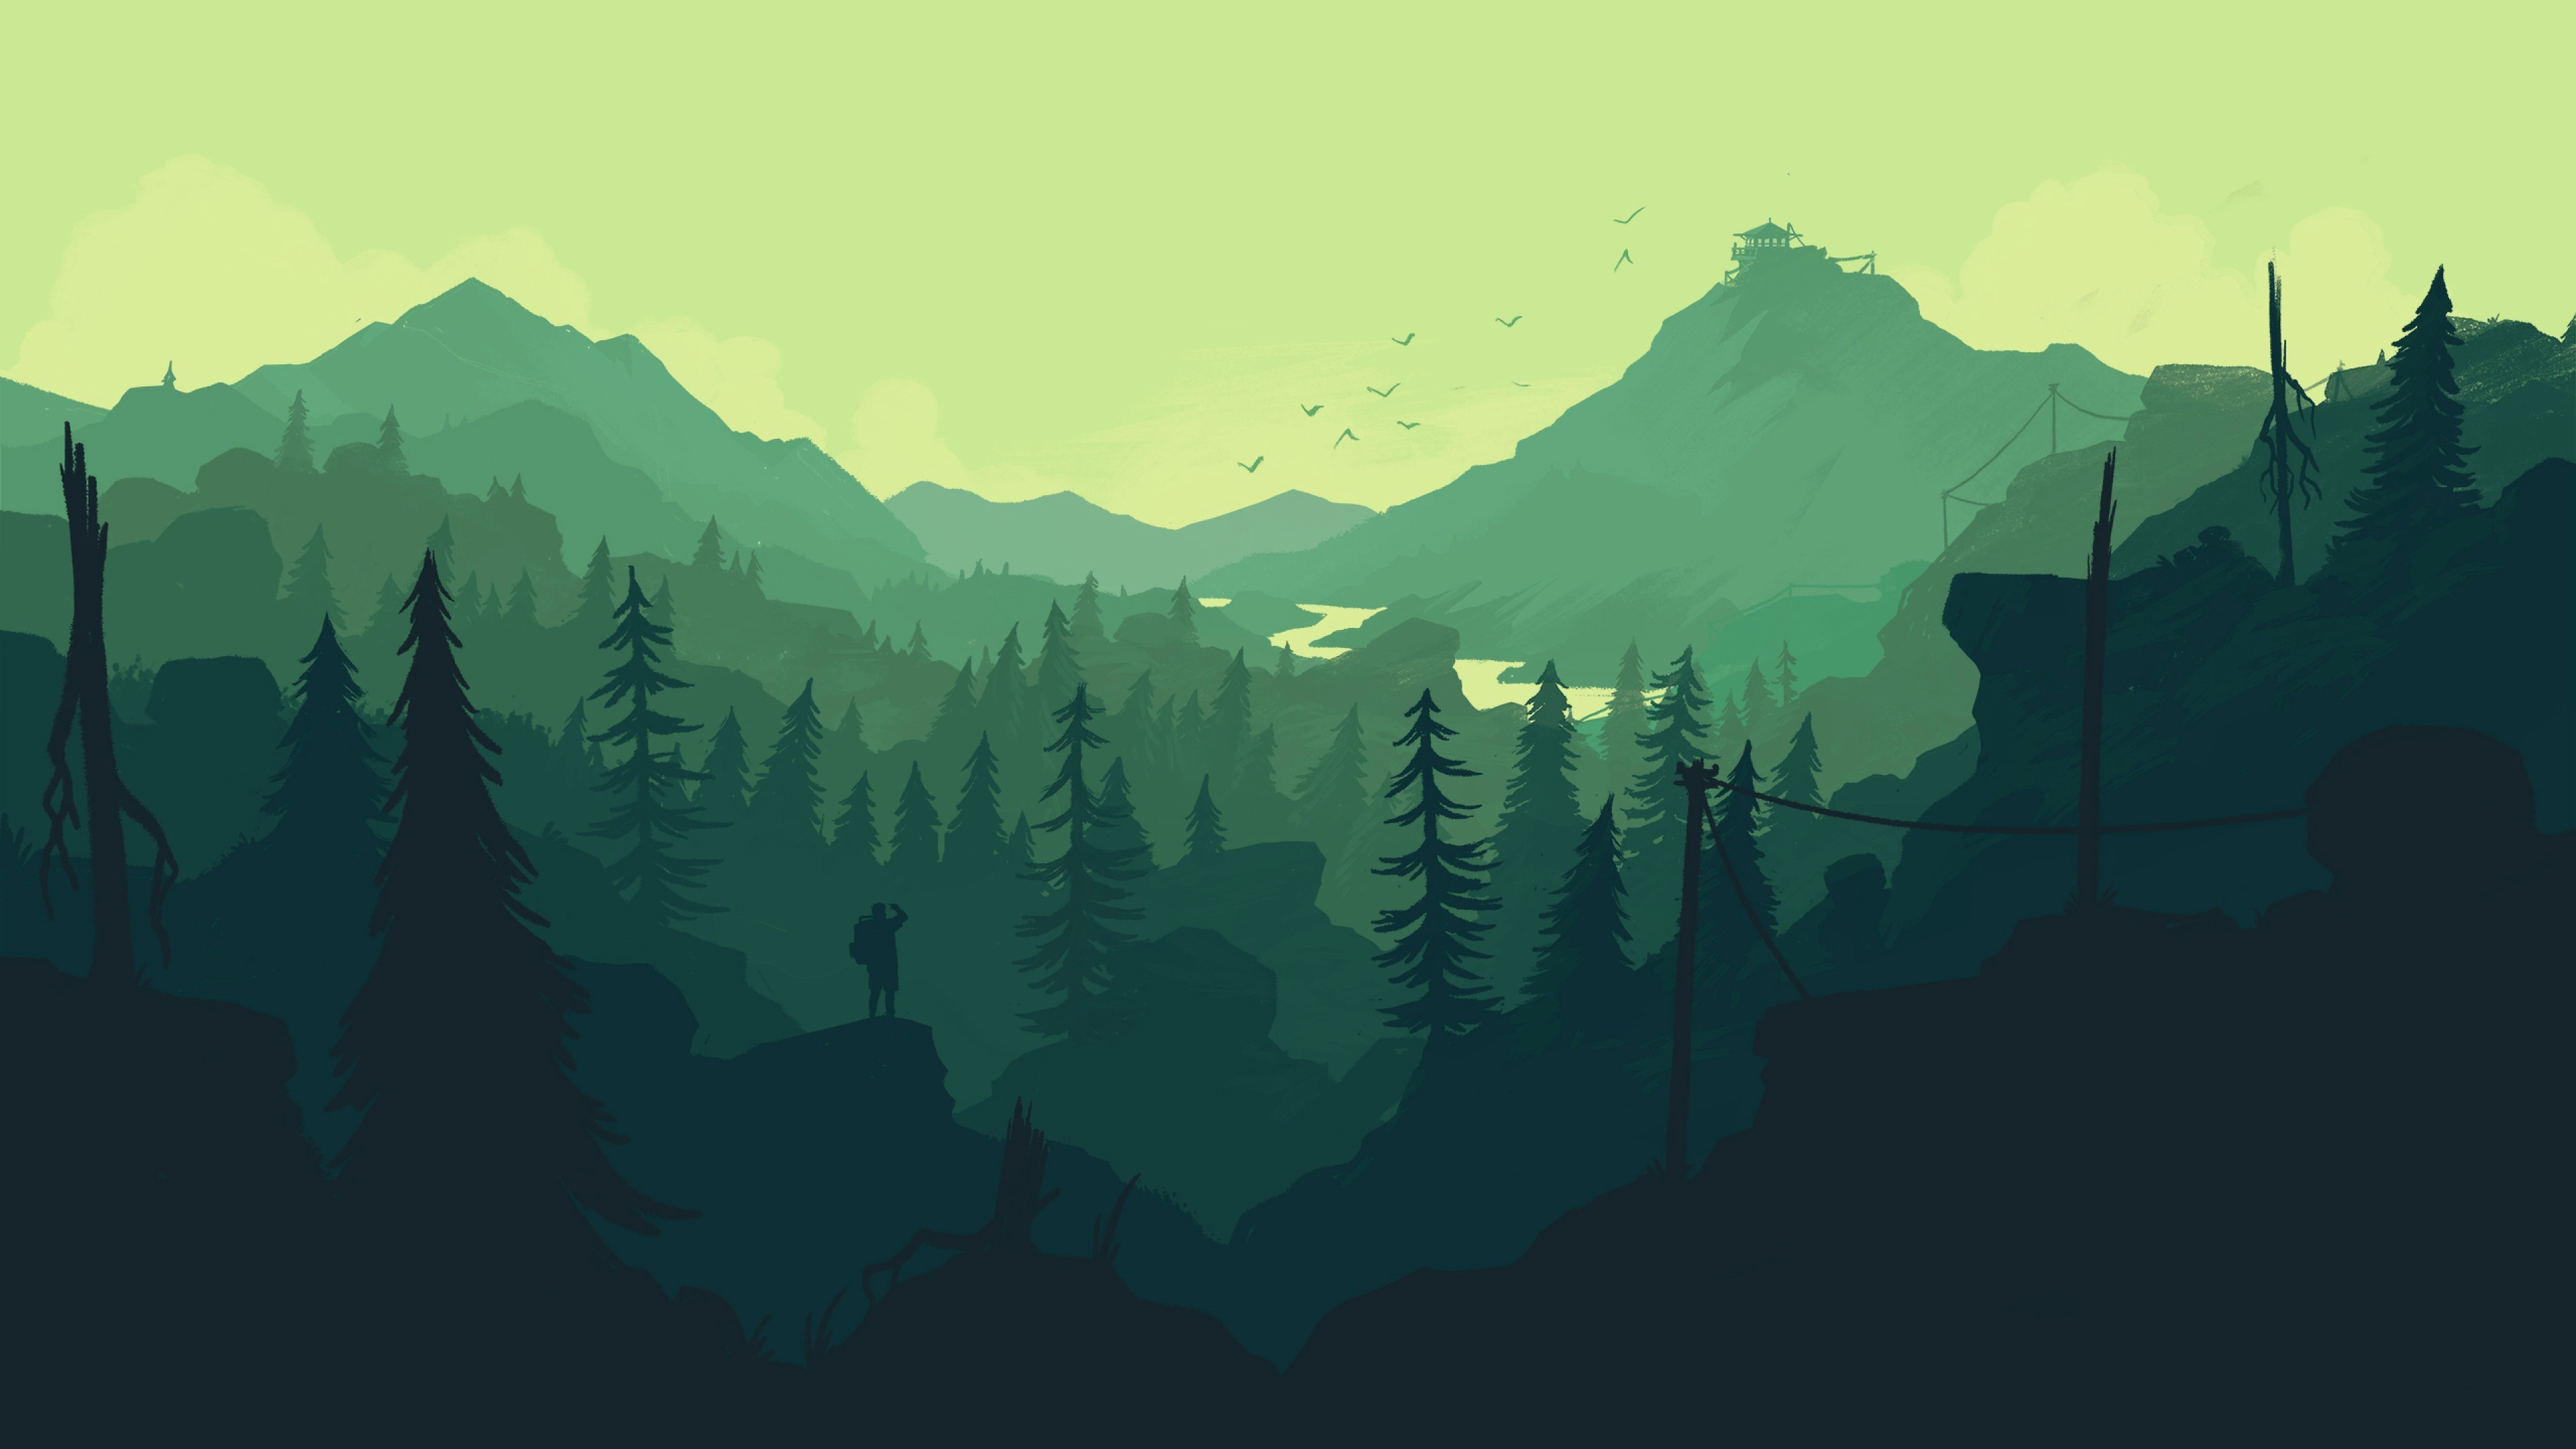
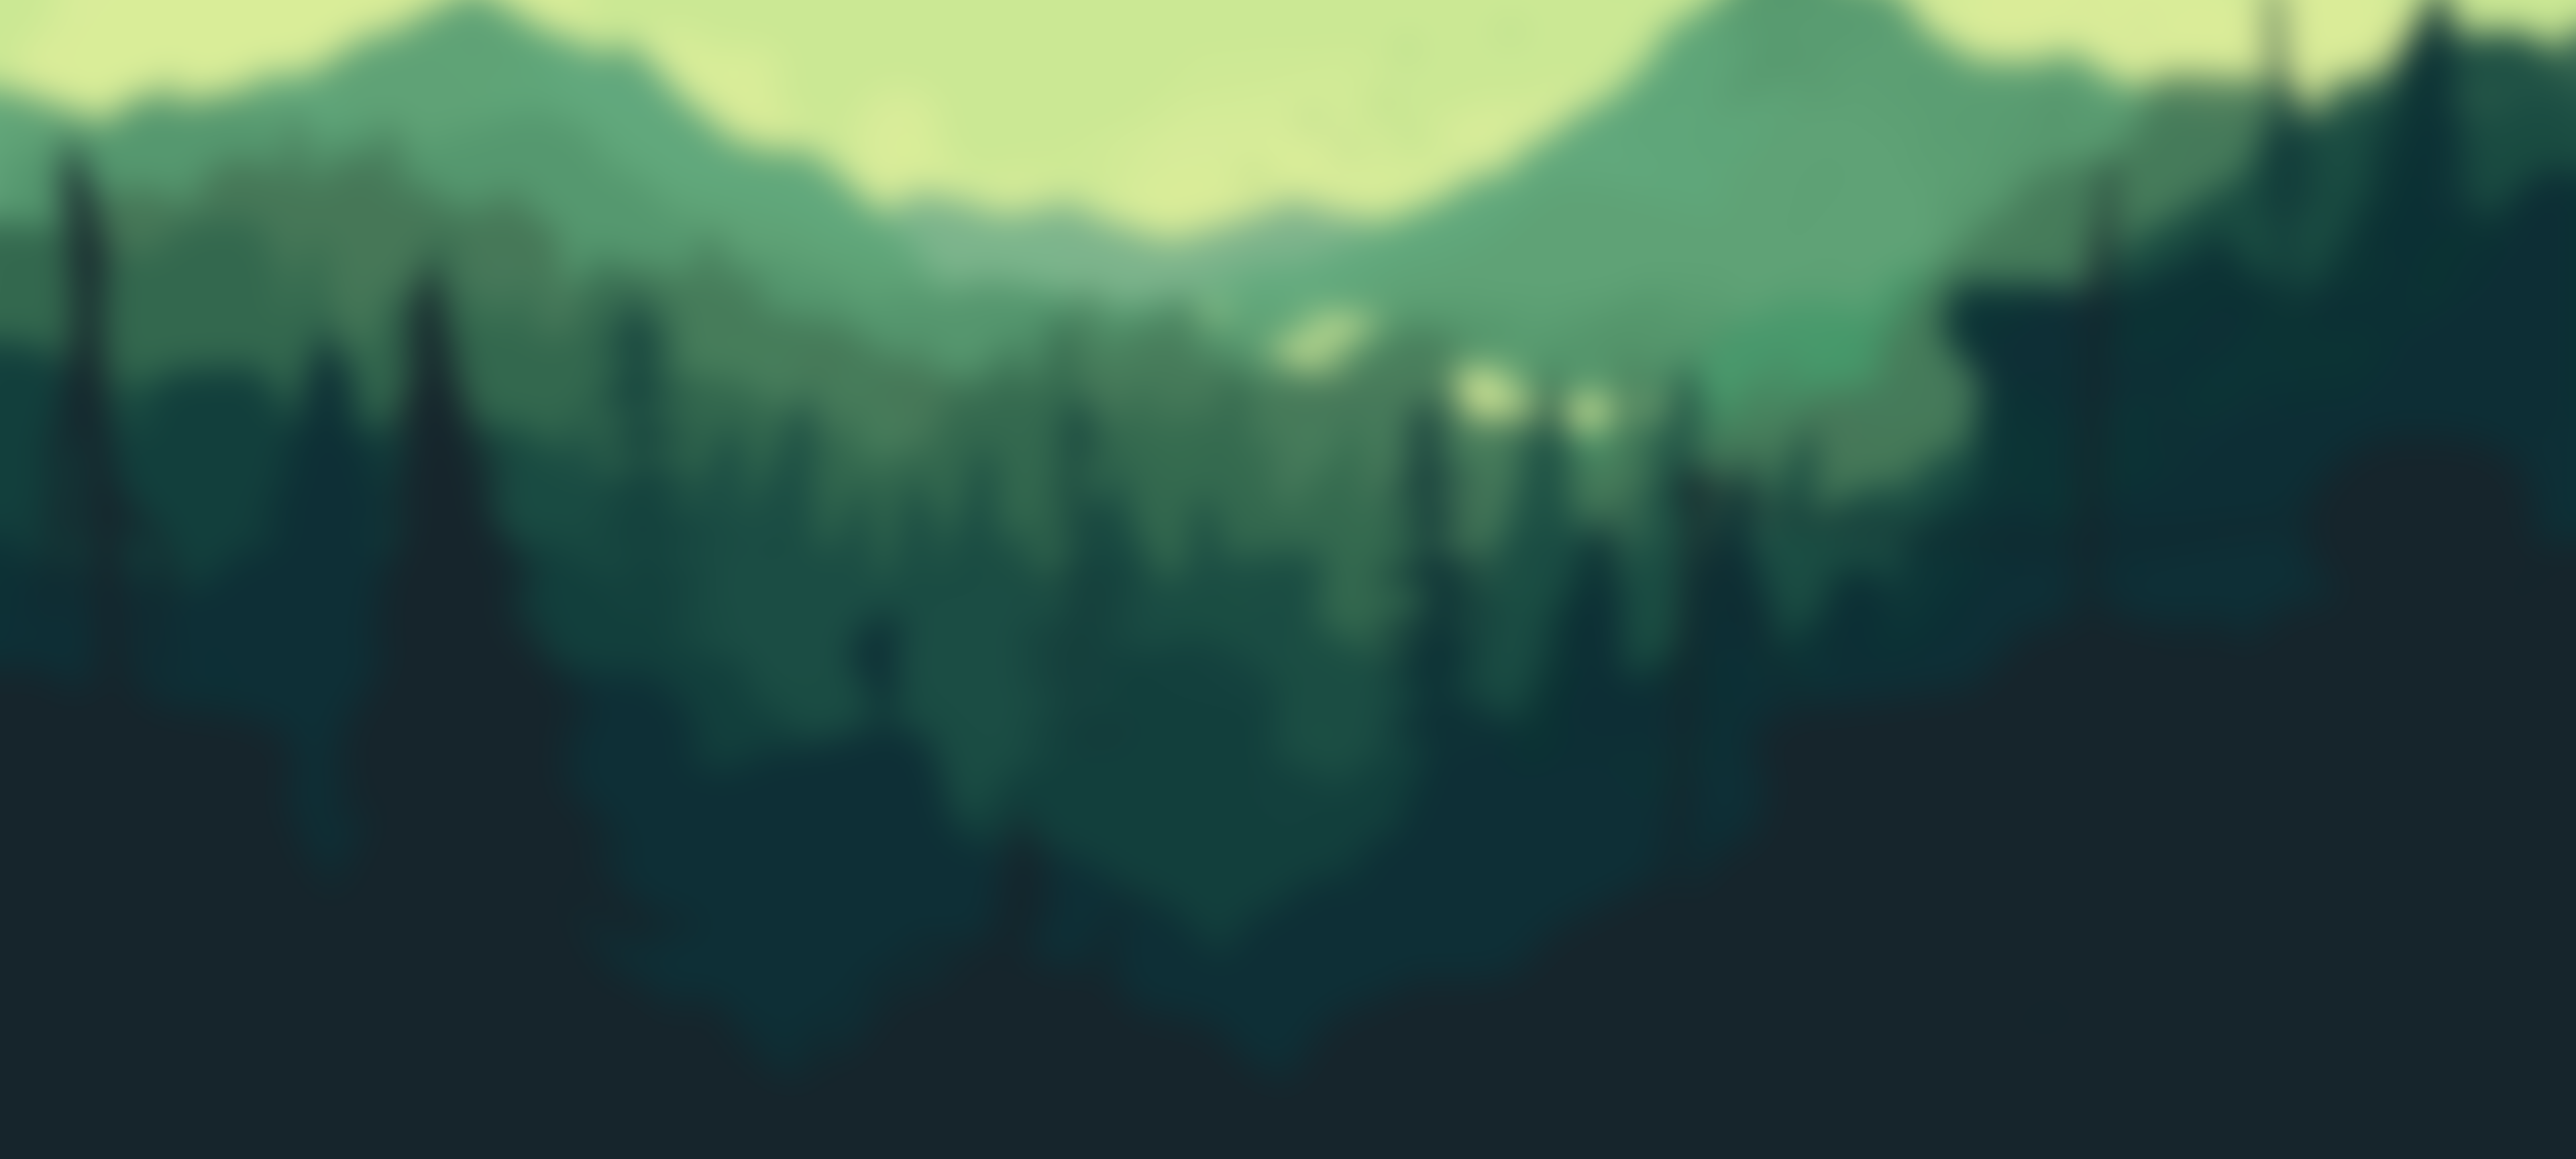
Ajout d'un fond et flou intro

diff --git a/index.html b/index.html
@@ -5,7 +5,7 @@
 <head>
     <title>DorianVIDAL</title>
     <link type="text/css" rel="stylesheet" href="stylesheet.css">
-
+    <link href="https://fonts.googleapis.com/css?family=Vidaloka&display=swap" rel="stylesheet">
 
 </head>
 
@@ -17,27 +17,36 @@
     <!--***************Presentation*************-->
     <h2>Présentation</h2>
     <div id="introduction">
-        <p>Actuelement étudiant en 2ème année au DUT informatique du puy en velay je me suis spécialisé dans la modélisation 3D et l'infogrphie. Vous pourrez donc trouvez mes projets personnales et réalisé en groupe. Certain sont encore ne cours, mais seront
-            complétés au fur ret àa mesure de leur progression</p>
+        <div id="TextIntro">
+            <h5>Actuelement étudiant en 2ème année au DUT informatique du puy en velay je me suis spécialisé dans la modélisation 3D et l'infographie. Vous pourrez donc trouvez mes projets personnels et réalisé en groupe. Certain sont encore ne cours, mais
+                seront complétés au fur et à mesure de leur progression</h5>
+        </div>
     </div>
     <!--***************Projets*************-->
     <!--***************Biblithèque*************-->
     <h2>Mes Projets</h2>
     <h3>Modélisation d'une bibliothèque</h3>
+    <p>Modélisation d'une bibliothèque sur 3ds Max, Texturing sur substance et mise en scène Unreal Engine 4</p>
     <div id="bibliotheque">
-        <p>Modélisation d'une bibliothèque sur 3ds Max, Texturing sur substance et mise en scène Unreal Engine 4</p>
+
     </div>
+    <br>
     <div id="b2"></div>
+    <br>
     <div id="b3"></div>
+    <br>
     <div id="b4"></div>
 
     <!--***************Presentation*************-->
     <h3>Création d'un Jeu 3D "Fallen" sur Unreal Engine 4</h3>
+    <p>Projet Tutorés de 2ème année. réalisé sur Unreal Engine. Commanditaire et Modélisateur du projet. Modélisation du personnage jouable et de l'environnement de jeu, sur le logiciel maya.</p>
+    <p>Ce projet est encore en cours</p>
     <div id="RPG1">
-        <p>Projet Tutorés de 2ème année. réalisé sur Unreal Engine. Commanditaire et Modélisateur du projet. Modélisation du personnage jouable et de l'environnement de jeu, sur le logiciel maya.</p>
+
     </div>
+    <br>
     <div id="RPG2">
-        <p>Ce projet est encore en cours</p>
+
     </div>
 
 

diff --git a/stylesheet.css b/stylesheet.css
@@ -12,6 +12,14 @@ header {
     text-align: center;
 }
 
+body {
+    background-image: url("img/bodyback.png");
+    background-attachment: fixed;
+    background-position: center;
+    background-repeat: no-repeat;
+    background-size: cover;
+}
+
 #introduction {
     background-image: url("img/fond1.jpg");
     background-attachment: fixed;
@@ -20,8 +28,12 @@ header {
     background-size: cover;
     padding-top: 10em;
     padding-bottom: 10em;
-    opacity: 1.0;
     text-align: center;
+}
+
+#introduction,
+p {
+    color: blanchedalmond;
 }
 
 #bibliotheque {
@@ -32,7 +44,6 @@ header {
     background-size: cover;
     padding-top: 20em;
     padding-bottom: 20em;
-    opacity: 0.8;
     text-align: center;
 }
 
@@ -44,7 +55,6 @@ header {
     background-size: cover;
     padding-top: 20em;
     padding-bottom: 20em;
-    opacity: 0.8;
     text-align: center;
 }
 
@@ -56,7 +66,6 @@ header {
     background-size: cover;
     padding-top: 20em;
     padding-bottom: 20em;
-    opacity: 0.8;
     text-align: center;
 }
 
@@ -68,7 +77,6 @@ header {
     background-size: cover;
     padding-top: 20em;
     padding-bottom: 20em;
-    opacity: 0.8;
     text-align: center;
 }
 
@@ -98,23 +106,37 @@ header {
 /*********************STYLE DES ECRITURES********************************/
 
 h1 {
+    font-family: 'Vidaloka', serif;
     font-size: 7em;
     color: aliceblue;
 }
 
 h2 {
+    font-family: 'Vidaloka', serif;
     font-size: 5em;
     text-align: center;
 }
 
 h3 {
+    font-family: 'Vidaloka', serif;
     font-size: 3em;
     text-align: center;
 }
 
 p {
+    font-family: 'Vidaloka', serif;
     padding-left: 10%;
     padding-right: 10%;
-    font-size: 3em;
+    font-size: 2em;
     color: black;
+    text-align: center;
+}
+
+h5 {
+    font-family: 'Vidaloka', serif;
+    font-size: 2em;
+    text-align: center;
+    color: whitesmoke;
+    padding-right: 20%;
+    padding-left: 20%;
 }
